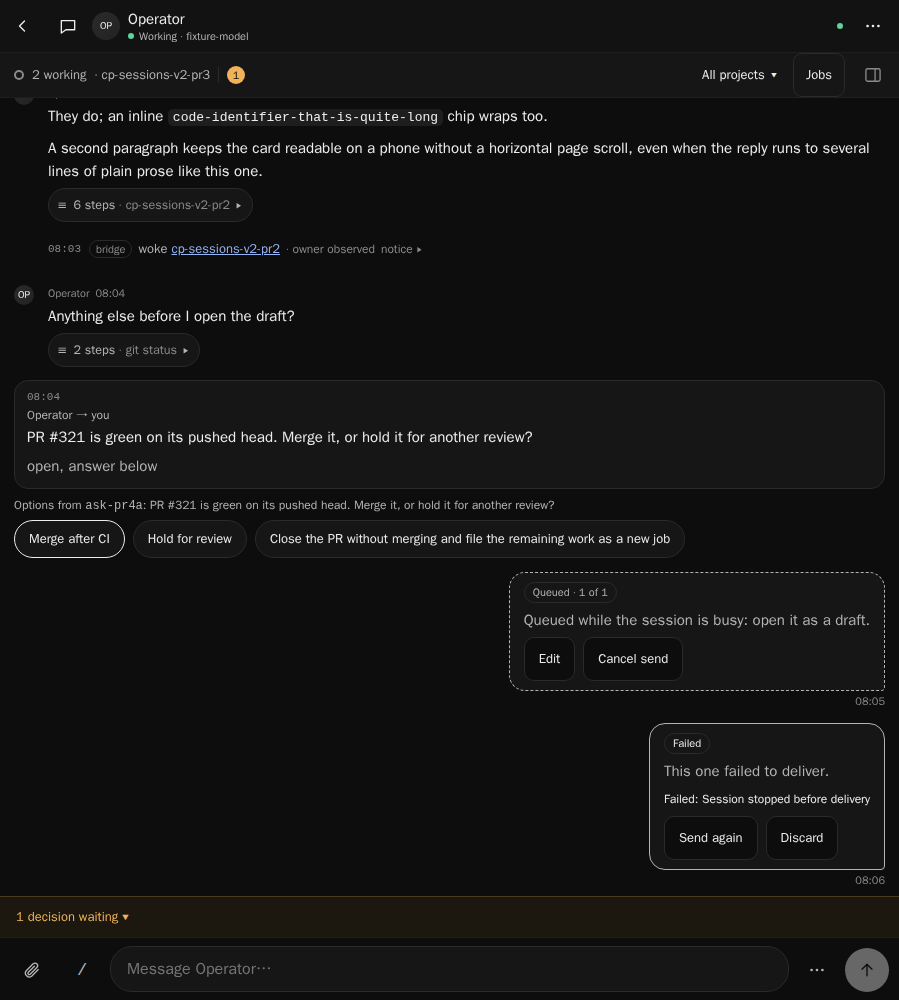
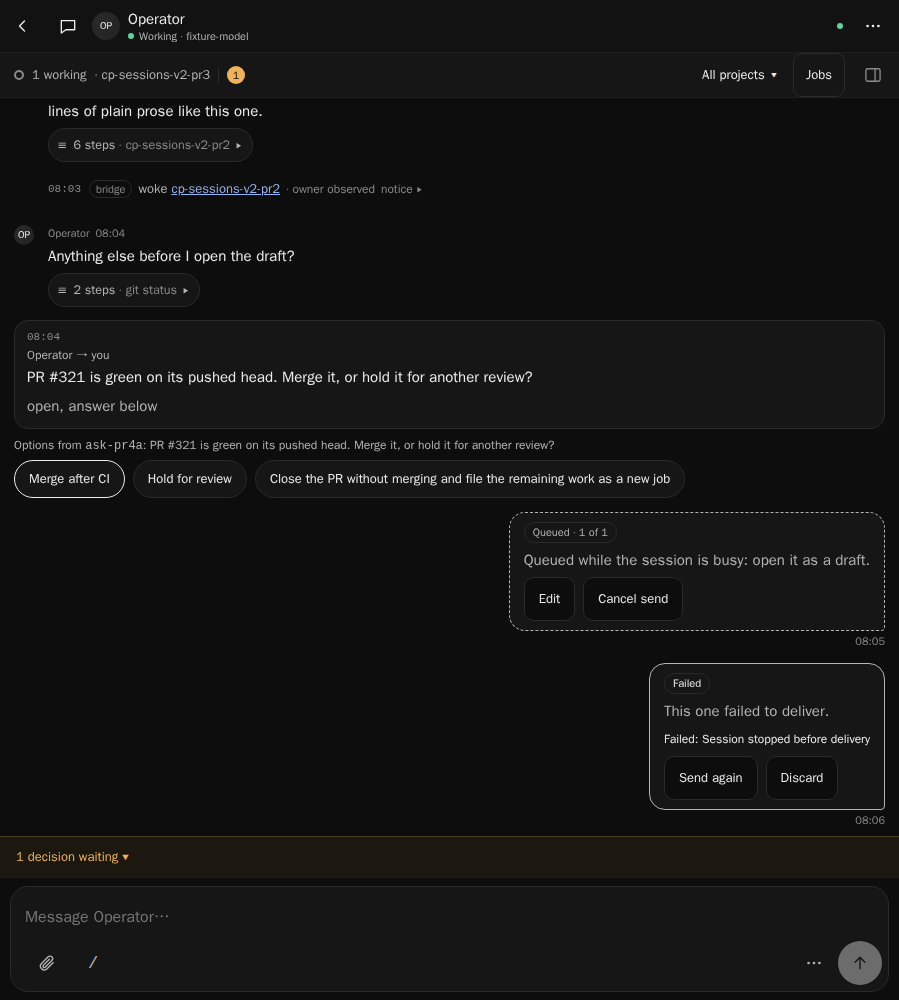
viewer: S1 repair — phone composer card, strip counts working runs, review 1 fixes
Phone composer (<900px) is the design's rounded card: full-width field over
attach, / and the existing ⋯, send at the row's end. The phone strip counts
only recorded working runs. Review 1: the close-holds test switches session
file, the inspector's Escape skips IME composition, docs line 137 updated,
the drawer nav is 'Drawer primary'. S1 deepEquals assert booleans so a
failure never inspects a linkedom DOM (the cause of the control's OOM).

diff --git a/tests/e2e/viewer-m3-context.test.ts b/tests/e2e/viewer-m3-context.test.ts
@@ -64,7 +64,7 @@ test("M3-context-inspector: Context opens the desktop inspector with the open as
 	// Full match S1: the current chat opens its inspector by default from 900 px (negative control: the old
 	// closed-until-asked default fails here); the phone test pins that 899 px never pops a sheet.
 	const panel = tab.$(".sessions > aside.workspace-context")!;
-	assert.deepEqual([toggle.getAttribute("aria-expanded"), !!panel, tab.$(".session-pinned-open"), toggle.querySelector("svg") !== null], ["true", true, null, true], "open by default, an icon toggle");
+	assert.deepEqual([toggle.getAttribute("aria-expanded"), !!panel, !!tab.$(".session-pinned-open"), toggle.querySelector("svg") !== null], ["true", true, false, true], "open by default, an icon toggle");
 	assert.equal(toggle.querySelector(".workspace-badge.workspace-badge-ask")?.textContent, "1", "an open ask paints the count");
 	assert.equal(tab.$("dialog.workspace-context"), null, "desktop: a panel beside the chat, not a modal");
 	assert.deepEqual(texts(tab, "aside.workspace-context h3"), ["Asked you · 1", "In flight · 2"]);
@@ -92,9 +92,18 @@ test("M3-context-inspector: Context opens the desktop inspector with the open as
 	assert.equal(escape(tab), true);
 	await until(() => tab.$(".workspace-context"), (el) => el === null, "Escape to close the inspector");
 	assert.deepEqual([focused() === toggle, field.value, tab.window.location.hash, escape(tab)], [true, "KEEP-DRAFT", `${CHAT}&project=atlas`, false], "focus, draft and filter kept");
-	// The user's close holds across a selection change in the same chat; leaving and coming back opens it again.
+	// The user's close holds across a selection change and a new session file in the same chat (the dismissed ref; without
+	// it the new file re-applies the default); leaving and coming back opens it again.
 	await pick(tab, "picp");
 	assert.equal(tab.$(".workspace-context"), null, "a closed inspector stays closed in the chat");
+	const next = join(d.home, "pi-sessions", "next.jsonl");
+	writeFileSync(next, `${JSON.stringify({ type: "message", timestamp: iso(1), message: { role: "assistant", content: [{ type: "text", text: "NEXT-FILE" }] } })}\n`);
+	appendFileSync(operatorSessionsFile(join(d.stateDir, "sessions")), `${JSON.stringify({ at: iso(1), session_file: next })}\n`);
+	tab.refresh();
+	await tab.waitText(/NEXT-FILE/);
+	await new Promise((done) => setTimeout(done, 50));
+	// Booleans, not Elements: a failing deepEqual on a linkedom node inspects the whole DOM and runs out of memory.
+	assert.deepEqual([!!tab.$(".workspace-context"), toggle.getAttribute("aria-expanded")], [false, "false"], "a new session file keeps the user's close");
 	tab.go("#jobs");
 	await until(() => tab.$(".workspace-context-open"), (el) => el === null, "leaving the chat");
 	tab.go(`${CHAT}&project=atlas`);
@@ -123,7 +132,10 @@ test("M3-context-phone: the context sheet and the Conversations drawer are modal
 	await tab.waitText(/REPLY-CARD/);
 	tab.type(await tab.find(".operator-composer textarea"), "KEEP-DRAFT");
 	const button = await tab.find(".workspace-context-open");
-	assert.deepEqual([button.getAttribute("aria-expanded"), tab.$(".workspace-context")], ["false", null], "899 px and below: no sheet pops on load");
+	assert.deepEqual([button.getAttribute("aria-expanded"), !!tab.$(".workspace-context")], ["false", false], "899 px and below: no sheet pops on load");
+	// Full match S1 strip: cp-other is live (held, idle) but not working, so only cp-live counts.
+	// Negative control: counting every live worker again reads "2 working" here.
+	assert.deepEqual(texts(tab, ".session-strip-count, .session-strip-job"), ["1 working", "· cp-live"], "an idle worker is not called working");
 	tab.click(button);
 	await tab.find("dialog.workspace-context-sheet[open] .workspace-context-ask");
 	assert.deepEqual([tab.$("aside.workspace-context"), texts(tab, "dialog.workspace-context h3")], [null, ["Asked you · 1", "In flight · 2"]], "phone: the same content in a sheet");
@@ -143,8 +155,8 @@ test("M3-context-phone: the context sheet and the Conversations drawer are modal
 	tab.click(conversations);
 	await tab.find("dialog.workspace-sessions[open]");
 	assert.deepEqual(texts(tab, ".workspace-sessions .session-choice strong"), ["Operator", "CP parent", "cp-live", "cp-other"], "current session, then the Fleet");
-	assert.deepEqual([tab.$(".workspace-sessions-head h2"), !!tab.$(".workspace-sessions-head .shell-rail-search"), tab.$$('.workspace-sessions nav[aria-label="Primary"] a').map((a) => a.getAttribute("href"))],
-		[null, true, ["#sessions", "#jobs", "#more"]], "Full match S1: the rail's chrome replaces the Conversations title row");
+	assert.deepEqual([!!tab.$(".workspace-sessions-head h2"), !!tab.$(".workspace-sessions-head .shell-rail-search"), tab.$$('.workspace-sessions nav[aria-label="Drawer primary"] a').map((a) => a.getAttribute("href"))],
+		[false, true, ["#sessions", "#jobs", "#more"]], "Full match S1: the rail's chrome replaces the Conversations title row");
 	assert.deepEqual(texts(tab, ".workspace-sessions-list h2"), ["Fleet · 2 live"]);
 	assert.equal(tab.$('.workspace-sessions .session-choice[aria-current="page"]')!.getAttribute("href"), "#sessions?view=you&project=atlas", "the current session keeps the selection");
 	assert.doesNotMatch(tab.$("dialog.workspace-sessions")!.textContent!, /New thread/, "no threads");

diff --git a/viewer-app/screens/Sessions.tsx b/viewer-app/screens/Sessions.tsx
@@ -360,7 +360,8 @@ useViewportFit(()=>{if(follow.current) scrollToEnd();});
   <section><h2>Fleet · {data.workers.filter(countedLive).length} live</h2>{row(sessionHref("parent"),"CP parent",`${modelText(data.parent.context ?? {})} · ${data.parent.live ? "recent activity" : "no recent activity"}`,data.selected === "parent",{avatar:"CP",phase:data.parent.live ? "working" : "unknown",at:data.parent.last_activity,context:data.parent.context})}{data.workers.map(w=><div key={w.id}>{row(sessionHref("workers",w.id),w.id,`${modelText({model:w.context?.model ?? w.model,thinking:w.thinking})} · ${workerPhase(w)}`,data.session_id === w.id,{phase:workerDot(w),at:w.last_activity,context:w.context})}</div>)}{!data.workers.length && <p>No workers</p>}</section></>;
  const workspace=useWorkspaceSurfaces(filterable,selection,{session:data.operator_session ?? null,current:!history,asks:open,live:data.workers.filter(countedLive),chats,
   onAnswer:()=>{setPinOpen(true); remember(PINNED_KEY,"1","decisions bar");}});
- const live=data.workers.filter(countedLive), scope=!selection ? "All projects" : "project" in selection ? selection.project : "Untagged";
+ // Live counts held and idle workers too; the strip calls working only a recorded `working` run.
+ const working=data.workers.filter(w=>countedLive(w) && w.run_phase === "working"), scope=!selection ? "All projects" : "project" in selection ? selection.project : "Untagged";
  // A reply's job link opens Transcript beside the chat; renderRows reads it at render time, below this hook.
  const openJob=workspace.openJob, toTranscript:OpenTranscript | undefined=openJob ? (id,el)=>openJob(id,"transcript",el) : undefined;
  return <div class="sessions">
@@ -379,11 +380,11 @@ useViewportFit(()=>{if(follow.current) scrollToEnd();});
   </aside>
   <div class="session-panel">
    <SessionBar data={data} control={control} context={context} toolCalls={toolCalls} showTools={showTools} hiddenTools={hiddenTools} onTools={toggleTools} state={state} conversations={workspace.conversations}/>
-   {/* One compact row: identity and the chat's actions from 900 px; on a phone, the live/ask strip and the same actions. */}
+   {/* One compact row: identity and actions from 900 px; on a phone the live/ask strip and the same actions. */}
    <header class="session-heading">{data.selected !== "workers" && <span class={data.selected === "you" ? "session-avatar session-avatar-bot" : "session-avatar"} aria-hidden="true">{data.selected === "you" ? "OP" : "CP"}</span>}
     <div class="session-heading-id"><strong>{data.selected === "you" && data.transcript === true ? "Operator" : data.title}</strong><span class="session-heading-state"><span class={`session-dot session-dot-${state.dot}`}/><span>{state.text}</span><CtxPct usage={context} label/></span></div>
     {data.selected === "you" && data.transcript !== true && <p>Trace a decision: parent’s question → operator’s answer → the message you saw.</p>}
-    {filterable && <div class="session-strip"><span class="session-strip-run" aria-hidden="true"/><span class="session-strip-count">{live.length} working</span>{live[0] && <span class="session-strip-job">· {live[0].id}</span>}
+    {filterable && <div class="session-strip"><span class="session-strip-run" aria-hidden="true"/><span class="session-strip-count">{working.length ? `${working.length} working` : "none working"}</span>{working[0] && <span class="session-strip-job" title={working[0].id}>· {working[0].id}</span>}
      {open.length > 0 && <><span class="session-strip-sep" aria-hidden="true"/><span class="workspace-badge workspace-badge-ask">{open.length}</span><span class="session-strip-what"> asked you</span></>}</div>}
     {filterable && <div class="session-filter"><details class="session-bar-menu session-filter-menu">
      <summary aria-label={`Project: ${scope}`} title="Filter by project"><span>{scope}</span><span aria-hidden="true">▾</span></summary>

diff --git a/tests/fixtures/sessions-chat-v2-browser.ts b/tests/fixtures/sessions-chat-v2-browser.ts
@@ -614,13 +614,17 @@ try {
 	}
 	if (stage === "full-match-shell") {
 		// Full match S1 (design frames 1/6/11): measured boxes on each capture. Negative control: the closed-until-asked
-		// inspector fails `inspector` at 1440 and a 48 px phone bar or 14 px composer sides fail `phone`.
-		const look = `(() => { const q = s => document.querySelector(s), h = s => Math.round(q(s)?.getBoundingClientRect().height ?? 0), cs = s => q(s) && getComputedStyle(q(s));
+		// inspector fails `inspector` at 1440 and a 48 px phone bar or 14 px composer sides fail `phone`; so does a
+		// single-row phone composer (`field`) or an idle worker counted as working (`strip`).
+		const look = `(() => { const q = s => document.querySelector(s), h = s => Math.round(q(s)?.getBoundingClientRect().height ?? 0), cs = s => q(s) && getComputedStyle(q(s)), r = s => q(s).getBoundingClientRect();
 			const shown = s => [...document.querySelectorAll(s)].filter(e => e.getClientRects().length);
 			return { inspector: !!q("aside.workspace-context"), sheet: !!q("dialog[open]"), heading: h(".session-heading"), bar: h(".session-bar"),
 				rail: shown(".session-sidebar .shell-icon-nav > a").map(a => a.textContent).join(), drawer: shown(".workspace-sessions[open] .shell-icon-nav > a").map(a => a.textContent).join(),
 				sides: innerWidth < 900 ? cs(".operator-composer").paddingLeft + " " + cs(".session-entries").paddingLeft : null,
-				field: innerWidth < 900 ? q(".operator-composer textarea").tagName + " " + cs(".operator-composer textarea").maxHeight + " " + cs(".operator-composer textarea").borderTopLeftRadius : null,
+				field: innerWidth < 900 ? (() => { const t = r(".operator-composer textarea"), f = r(".operator-composer-footer"), b = q(".operator-composer-box"), p = cs(".operator-composer-box");
+					const inner = b.clientWidth - parseFloat(p.paddingLeft) - parseFloat(p.paddingRight);
+					return [p.borderTopLeftRadius, t.bottom <= f.top + 0.5 ? "field over footer" : "one row", t.width >= inner - 32 ? "full width" : "narrow"].join(" "); })() : null,
+				strip: innerWidth < 900 ? shown(".session-strip-count, .session-strip-job").map(e => e.textContent).join(" ") : null,
 				jobs: shown(".session-heading .workspace-jobs-open kbd").length ? q(".workspace-jobs-open").textContent + " " + q(".workspace-jobs-open").title : null,
 				drawer_width: Math.round(q(".workspace-sessions[open]")?.getBoundingClientRect().width ?? 0),
 				small: shown(".session-filter-menu > summary, .workspace-jobs-open, .workspace-context-open, .session-bar-icon, .workspace-sessions .shell-icon-nav > a, .workspace-sessions .shell-rail-search")
@@ -635,7 +639,8 @@ try {
 			["header-jobs", 1440, 1000, [header], { inspector: false, sheet: false, heading: 48, jobs: "Jobs⌘J Jobs (Ctrl/⌘ J)", small: "" }],
 			["1279", 1279, 1000, [], { inspector: true, sheet: false, heading: 48, small: "" }],
 			["900", 900, 1000, [], { inspector: true, sheet: false, heading: 48, small: "" }],
-			["phone", 390, 844, [], { inspector: false, sheet: false, heading: 45, bar: 53, sides: "10px 14px", field: "TEXTAREA 122px 22px", small: "" }],
+			["phone", 390, 844, [], { inspector: false, sheet: false, heading: 45, bar: 53, sides: "10px 14px", field: "18px field over footer full width",
+				strip: "1 working · cp-sessions-v2-pr3", small: "" }],
 			["899", 899, 1000, [], { inspector: false, sheet: false, heading: 45, bar: 53, small: "" }],
 			["drawer", 390, 844, [drawer], { drawer: "Chat,Jobs,More", drawer_width: 317, small: "" }],
 			["filter", 390, 844, [filter], { sheet: false, small: "" }],

diff --git a/tests/e2e/viewer-mobile-keyboard.test.ts b/tests/e2e/viewer-mobile-keyboard.test.ts
@@ -91,14 +91,15 @@ test("P19-kbd-css: the served page and stylesheet pin the phone shell, stop page
 	assert.doesNotMatch(css, /operator-composer-field>\.operator-composer-attach/, "the attach icon is never positioned over the field");
 	assert.match(css, /\.operator-composer textarea\{[^}]*padding:10px 12px;/, "the field keeps its own padding only");
 
-	// Chat v2 (PR5): below 900 px the footer flattens into the box's row; Options is desktop-only.
-	assert.match(css, /\.operator-composer-box\{display:flex;align-items:flex-end;/, "one flex row of 44 px targets");
-	assert.match(css, /\.operator-composer-footer\{display:contents\}/, "the footer's controls share the field's row");
-	assert.match(phone, /\.operator-composer-field\{order:1\}/);
-	assert.match(phone, /\.operator-composer-more,\.operator-composer-send\{order:2\}/, "send stays at the row's end");
+	// Full match S1 (design frames 6, 10) supersedes Chat v2's single phone row: the field has the card's top row,
+	// over a footer of 44 px targets with send at its end; Options stays desktop-only and the field stays 16 px.
+	assert.match(css, /\.operator-composer-box\{display:flex;align-items:flex-end;/, "the box is a flex container");
+	assert.match(phone, /\.operator-composer-box\{flex-direction:column;align-items:stretch;/, "the field over the footer");
+	assert.match(phone, /\.operator-composer-footer\{display:flex;align-items:center;/, "the footer is its own row");
+	assert.match(phone, /\.operator-composer-footer>\.operator-composer-more,\.operator-composer-footer>\.operator-composer-send\{margin-left:auto\}/, "send stays at the row's end");
 	assert.match(phone, /\.operator-composer-options\{display:none\}/, "Options is desktop-only");
 	assert.match(phone, /\.operator-composer-attach,\.operator-composer-send,\.operator-composer-more>summary\{width:44px;height:44px\}/);
-	assert.match(phone, /\.operator-composer textarea\{min-height:46px;padding:12px 16px;border-radius:22px;font-size:16px\}/, "a 16 px field");
+	assert.match(phone, /\.operator-composer textarea\{min-height:44px;[^}]*font-size:16px;/, "a 16 px field");
 	assert.match(css, /\.session-bar-id\{position:relative;flex:1;align-self:stretch;/, "the bar's name column");
 	assert.match(css, /\.session-bar-icon,\.session-bar-more>summary\{position:relative;width:44px;height:44px;/, "back and ⋯ are 44 px");
 });

diff --git a/tests/e2e/viewer-m3-composer.test.ts b/tests/e2e/viewer-m3-composer.test.ts
@@ -104,6 +104,8 @@ test("M3-composer-typed: a `/` draft offers /status and /jobs only; Enter/Tab ru
 	assert.deepEqual([tab.$('[role="listbox"]')!.getAttribute("aria-label"), options(tab)], ["Installed skills", ["@teachExplain step by step"]], "skills keep the @ list");
 	await type(tab, "1/jobs");
 	assert.equal(n(tab, '[role="listbox"]'), 0, "only a whole `/word` draft is a command");
+	// Full match S1: the inspector is open by default, so Escape with nothing else open is the chat's; an IME one is not.
+	assert.deepEqual([await press(tab, "Escape", true), !!tab.$("aside.workspace-context")], [false, true], "an IME Escape keeps the inspector");
 	const footer = [...tab.document.querySelectorAll(".operator-composer-attach, .operator-composer-slash")] as unknown as Element[];
 	assert.deepEqual(footer.map((el) => el.className), ["operator-composer-attach", "operator-composer-slash"], "the paperclip stays first");
 });
@@ -168,6 +170,12 @@ test("M3-composer-menu: the touch `/` menu runs commands and attaches a selectio
 	assert.match(rule(".operator-composer"), /padding-left:10px;padding-right:10px;padding:12px max\(28px,calc\(\(100% - 664px\) ?\/ ?2\)\) 16px$/,
 		"10 px phone sides; from 900 px the 720 px column's 28 px sides");
 	assert.match(rule(".operator-composer-box"), /gap:12px;padding:14px 12px 10px 16px;background:var\(--surface\)/, "the design box's 14/12/10/16 padding");
+	// Full match S1 (frames 6, 10): below 900 px the field takes the card's whole top row and the controls a row below.
+	// Negative control: restoring the single phone row (row box, `display:contents` footer, `order`) fails this.
+	assert.match(rule(".operator-composer-box"), /;flex-direction:column;align-items:stretch;[^;]*;padding:8px 6px 6px 14px;.*border-radius:18px;flex-direction:column;/,
+		"phone: a rounded card stacking the field over its footer");
+	assert.match(rule(".operator-composer-footer"), /^display:contents;display:flex;align-items:center;/, "phone: the footer is its own row");
+	assert.doesNotMatch(css, /\.operator-composer-field\{order:/, "the field is never reordered into the buttons' row");
 });
 
 test("M3-composer-attachments: an attached image and the draft survive /status and a job reference; a closed menu's late lookup attaches nothing", { timeout: 180_000 }, async (t) => {

diff --git a/viewer-app/components/control.css b/viewer-app/components/control.css
@@ -127,15 +127,18 @@
 .overview-services { display: flex; flex-direction: column; gap: 8px; min-width: 0; margin: 0 0 16px; }
 .overview-services-line { margin: 0; overflow-wrap: anywhere; }
 @media (max-width: 899px) {
- /* One row: attach, field, ⋯, send. The file name lives in the top bar's ⋯ sheet, so Options is desktop-only.
-    The composer's 10 px sides (design frame 6) sit inside the transcript's 14 px. */
+ /* Design frames 6 and 10: a rounded card, the full-width field over attach, / and ⋯, send at the row's end. Options
+    is desktop-only (the file name is in the top bar's ⋯ sheet). Sides are 10 px, inside the transcript's 14. */
  .operator-composer { padding-left: 10px; padding-right: 10px; }
- .operator-composer-field { order: 1; }
- .operator-composer-more, .operator-composer-send { order: 2; }
+ .operator-composer-box { flex-direction: column; align-items: stretch; gap: 2px; padding: 8px 6px 6px 14px; background: var(--surface); border: 1px solid var(--border); border-radius: 18px; }
+ .operator-composer-box:focus-within { border-color: var(--focus); }
+ .operator-composer-footer { display: flex; align-items: center; gap: 2px; min-width: 0; }
+ .operator-composer-footer > .operator-composer-more, .operator-composer-footer > .operator-composer-send { margin-left: auto; }
+ .operator-composer-more + .operator-composer-send { margin-left: 0; }
  .operator-composer-options { display: none; }
  .operator-composer-attach, .operator-composer-send, .operator-composer-more > summary { width: 44px; height: 44px; }
  .operator-composer-slash { width: 44px; height: 44px; }
- .operator-composer textarea { min-height: 46px; padding: 12px 16px; border-radius: 22px; font-size: 16px; }
+ .operator-composer textarea { min-height: 44px; padding: 11px 8px 11px 0; background: none; border: 0; border-radius: 0; font-size: 16px; line-height: 22px; }
  /* The status and file name live in the top bar (dot and ⋯ sheet); only a failure or an unready session speaks here. */
  .operator-composer-delivery:not(.operator-composer-failed) { display: none; }
 }

diff --git a/viewer-app/components/WorkspaceSurfaces.tsx b/viewer-app/components/WorkspaceSurfaces.tsx
@@ -79,7 +79,7 @@ export function useWorkspaceSurfaces(active: boolean, selection: ProjectSelectio
   if (!active) return;
   const key = (e: KeyboardEvent) => {
    if (jobsKey(e)) { e.preventDefault(); if (drawer) closeDrawer(); else openDrawer(document.activeElement as HTMLElement | null); return; }
-   if (e.key !== "Escape" || e.defaultPrevented || document.querySelector(OWNERS) || !(drawer || sessions || panel || job)) return;
+   if (e.key !== "Escape" || e.isComposing || e.defaultPrevented || document.querySelector(OWNERS) || !(drawer || sessions || panel || job)) return;
    e.preventDefault();
    if (drawer) closeDrawer(); else if (sessions) closeSessions(); else if (panel === "sheet") closePanel(); else if (job) closeJob(); else dismiss();
   };

diff --git a/viewer-app/components/SessionDrawer.tsx b/viewer-app/components/SessionDrawer.tsx
@@ -16,6 +16,6 @@ export function SessionDrawer({onClose, children}: {onClose: () => void; childre
    <button type="button" class="workspace-close" aria-label="Close conversations" onClick={onClose}><Icon name="close"/></button>
   </header>
   <nav class="workspace-sessions-list" aria-label="Session streams">{children}</nav>
-  {rail?.nav("Primary")}
+  {rail?.nav("Drawer primary")}
  </dialog>;
 }

diff --git a/docs/viewer-app.md b/docs/viewer-app.md
@@ -134,7 +134,7 @@ Carried from PR1 review, unchanged on purpose: Sessions ask cards and own messag
 `projects`, so they show under *All* and *Untagged* only.
 With *All*, messages, notices, system entries and ask cards are never hidden. A
 result truncated behind one *show all*, `cp-bridge` messages marked `bridge`,
-compaction markers, timestamps). A bridge notice is one line, `bridge <verb> <job> · <receipt>` (`wake` reads `woke`; underscores in a receipt become spaces), and a body of more than one line stays in a collapsed disclosure. A say line in this transcript that starts `[<project>] ` drops that prefix when `<project>` is a directory under `projects/`; the name shows as a chip, and any other bracket stays in the text. The session file picker labels each file with its date and time, marks the newest `current`, and puts the file id on the option title. From 900px the Sessions screen is two flush columns (**Combine**, M3 fidelity slice A): one full-height 261 px column (hairline included) holding the brand and a search icon, then *Chats*, and the live status above Chat/Jobs/More as icons at its foot (Full match shell, below), and a transcript that fills the rest edge to edge (Chats, below). Sessions claims the rail through `ShellContext` (`rail`, `claimRail`), so the shell drops its separate 208 px rail only while the chat is drawn; loading and unavailable states keep a 261 px shell rail, and every other screen keeps its 208 px rail and layout. The *Chats* `<h1>` stays for screen readers but takes no title row; Context (340 px) and a picked job (520 px) sit beside it from 1280 px. Below 900 px nothing changed: the phone top bar, tab bar and Conversations drawer. The transcript heading is one 48px row (name, muted ctx percent, session picker, quiet *Tools N*, then the shell's status dot and ⋮), not sticky. Sessions chat v2 (PR 1, `screens/sessions.css`, `session-rows.ts`): the session's messages are unboxed text (transparent, no radius; 15/23 px on a phone, M3 fidelity B) under an initials avatar and `Name · HH:MM` once per group (the operator transcript calls you *You*, visually hidden, and the session *Operator* with the identity avatar, neutral since Full match S1); your own messages, and a parent brief in a worker view, are right-hand neutral `--session-you` bubbles (the `--border` grey, `--text` ink), radius 16/16/4 (84% on a phone, 72% from 900 px) with their time below; the transcript is a 720 px centred column (28 px sides; 14 px on a phone, M3) with 670 px cards on desktop; markdown tables are full width with hairline rows; a browser-local day pill (`Wed, Oct 15`, year only outside the current one) opens each new calendar day in source order, splitting a tool run and a bubble group, and an unparseable time opens none; a collapsed run of tool calls is one `≡ N steps · detail ▸` pill, and its open run is an unboxed inline rail (a 2 px left rule, 12 px inset) listing one 28 px row per step whose name column fits names up to 120 px (`cp_integrate`, `fetch_content`), a longer one ellipsized with the full name in its title. **Chats** (PR 3): the *Operator* row has the identity avatar and, on the latest file of the Full transcript, the newest loaded message as a two-line preview with its time (`You: ` for yours); on an older file it reads *Historical transcript*, and on Decisions or another tier it keeps the model line. *Fleet · N live* (held-idle counts as live) holds CP parent (`recent activity` / `no recent activity`: transcript mtime, not process health) with the workers nested under it, each with its run phase or `no run status` and its last recorded time. The first message keeps scroll padding so its header is never clipped. The cp-bridge appends each `PI_SESSION_FILE` it
+compaction markers, timestamps). A bridge notice is one line, `bridge <verb> <job> · <receipt>` (`wake` reads `woke`; underscores in a receipt become spaces), and a body of more than one line stays in a collapsed disclosure. A say line in this transcript that starts `[<project>] ` drops that prefix when `<project>` is a directory under `projects/`; the name shows as a chip, and any other bracket stays in the text. The session file picker labels each file with its date and time, marks the newest `current`, and puts the file id on the option title. From 900px the Sessions screen is two flush columns (**Combine**, M3 fidelity slice A): one full-height 261 px column (hairline included) holding the brand and a search icon, then *Chats*, and the live status above Chat/Jobs/More as icons at its foot (Full match shell, below), and a transcript that fills the rest edge to edge (Chats, below). Sessions claims the rail through `ShellContext` (`rail`, `claimRail`), so the shell drops its separate 208 px rail only while the chat is drawn; loading and unavailable states keep a 261 px shell rail, and every other screen keeps its 208 px rail and layout. The *Chats* `<h1>` stays for screen readers but takes no title row; Context (340 px) and a picked job (520 px) sit beside it from 1280 px. Below 900 px the phone keeps its top bar (53 px since Full match S1), tab bar and Conversations drawer (its chrome is the rail's, below). The transcript heading is one 48px row, not sticky: name, muted ctx percent and, on the operator's Full transcript, the project popover, `Jobs ⌘J` and the Context icon (Full match shell, below); the session picker and *Tools N* live in the page's ⋮ menu. Sessions chat v2 (PR 1, `screens/sessions.css`, `session-rows.ts`): the session's messages are unboxed text (transparent, no radius; 15/23 px on a phone, M3 fidelity B) under an initials avatar and `Name · HH:MM` once per group (the operator transcript calls you *You*, visually hidden, and the session *Operator* with the identity avatar, neutral since Full match S1); your own messages, and a parent brief in a worker view, are right-hand neutral `--session-you` bubbles (the `--border` grey, `--text` ink), radius 16/16/4 (84% on a phone, 72% from 900 px) with their time below; the transcript is a 720 px centred column (28 px sides; 14 px on a phone, M3) with 670 px cards on desktop; markdown tables are full width with hairline rows; a browser-local day pill (`Wed, Oct 15`, year only outside the current one) opens each new calendar day in source order, splitting a tool run and a bubble group, and an unparseable time opens none; a collapsed run of tool calls is one `≡ N steps · detail ▸` pill, and its open run is an unboxed inline rail (a 2 px left rule, 12 px inset) listing one 28 px row per step whose name column fits names up to 120 px (`cp_integrate`, `fetch_content`), a longer one ellipsized with the full name in its title. **Chats** (PR 3): the *Operator* row has the identity avatar and, on the latest file of the Full transcript, the newest loaded message as a two-line preview with its time (`You: ` for yours); on an older file it reads *Historical transcript*, and on Decisions or another tier it keeps the model line. *Fleet · N live* (held-idle counts as live) holds CP parent (`recent activity` / `no recent activity`: transcript mtime, not process health) with the workers nested under it, each with its run phase or `no run status` and its last recorded time. The first message keeps scroll padding so its header is never clipped. The cp-bridge appends each `PI_SESSION_FILE` it
 runs under to `state/sessions/operator-sessions.jsonl` on `cp_parent start`,
 `cp_parent send` and (with dashboard control on) `session_start`, so a relaunch is a new file and the older ones stay
 selectable, newest first. Read-only: a recorded file that is missing or is not a
@@ -681,8 +681,10 @@ the search field and labelled items. The drawer drops its "Conversations" title 
 The Full transcript's project filter, `Jobs ⌘J` and Context now share the heading's one 48 px row: the filter is a
 popover (a `<details>` menu, Escape and an outside tap close it) around the same select and hash, and Context is an
 icon toggle with the ask count. On a phone the top bar is 53 px and the heading becomes a 45 px live/ask strip (a
-neutral run ring, *N working · first id*, then the ask badge only when one is open) carrying the same actions; the
-composer's sides are 10 px inside the transcript's 14 px. The current operator chat opens its inspector by default from
+neutral run ring, *N working · first id* counting only a recorded `working` run, *none working* when there is none, then
+the ask badge only when one is open) carrying the same actions. The phone composer is one rounded card (frames 6 and
+10): the field on its full-width top row, attach, / and ⋯ below with send at the row's end, 10 px sides inside the
+transcript's 14 px. The current operator chat opens its inspector by default from
 900 px (docked from 1280 px, over the chat's edge between); the user's close holds until they leave the chat or reload,
 a historical file and a phone never open it on load, and a session change still drops the job and sheet state.
 `--stage full-match-shell` measures 1440, 1279, 900, 899 and 390 px plus the phone drawer, the filter popover and the

diff --git a/changelog.d/cp-full-match-shell.md b/changelog.d/cp-full-match-shell.md
@@ -1,1 +1,1 @@
-- Viewer Chat (Design full match S1): the rail and the phone Conversations drawer share one chrome (brand, search icon, icon navigation at the foot); the project filter, Jobs and an icon Context toggle share the heading row, a phone gets a 53 px top bar, a 45 px live/ask strip and 10 px composer sides, and the current chat opens its inspector by default from 900 px until you close it.
+- Viewer Chat (Design full match S1): the rail and the phone Conversations drawer share one chrome (brand, search icon, icon navigation at the foot); the project filter, Jobs and an icon Context toggle share the heading row, a phone gets a 53 px top bar, a 45 px live/ask strip counting only working runs, and a rounded composer card with 10 px sides (the field above attach, / and send), and the current chat opens its inspector by default from 900 px until you close it.
